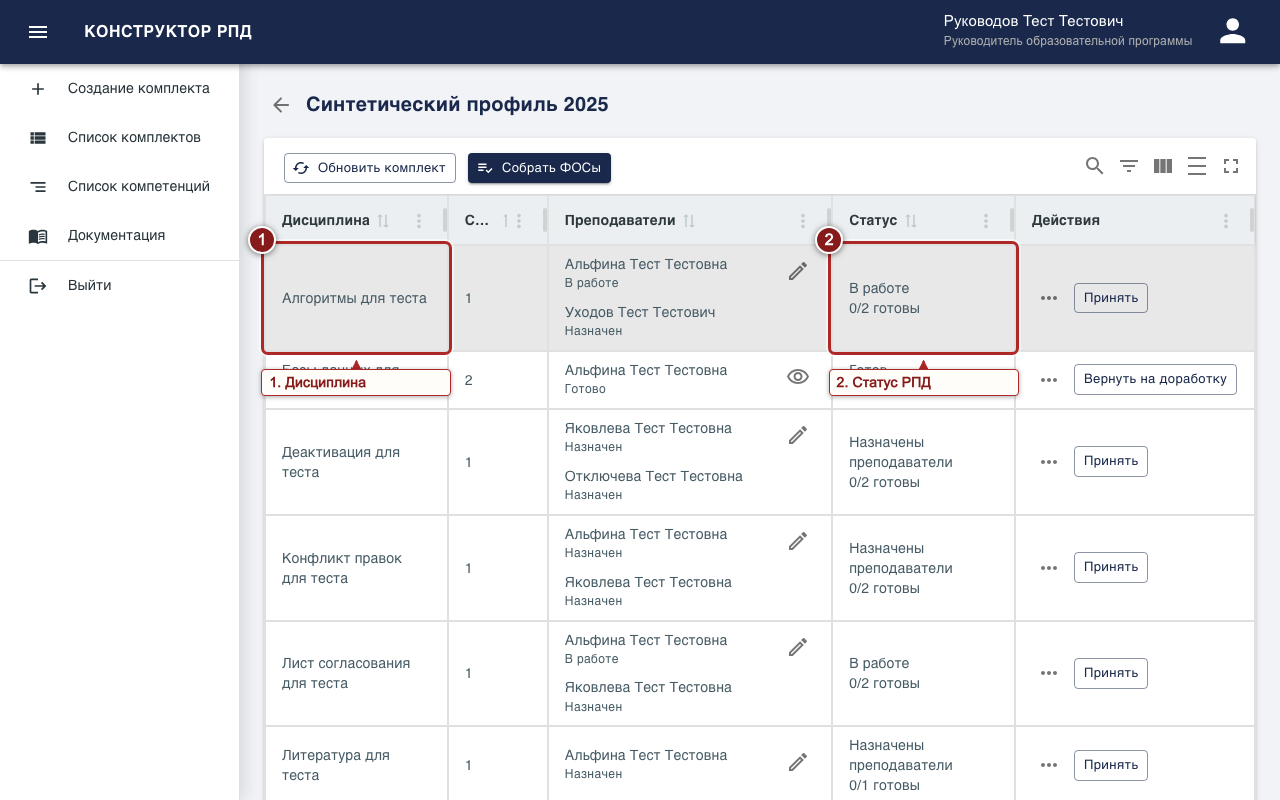
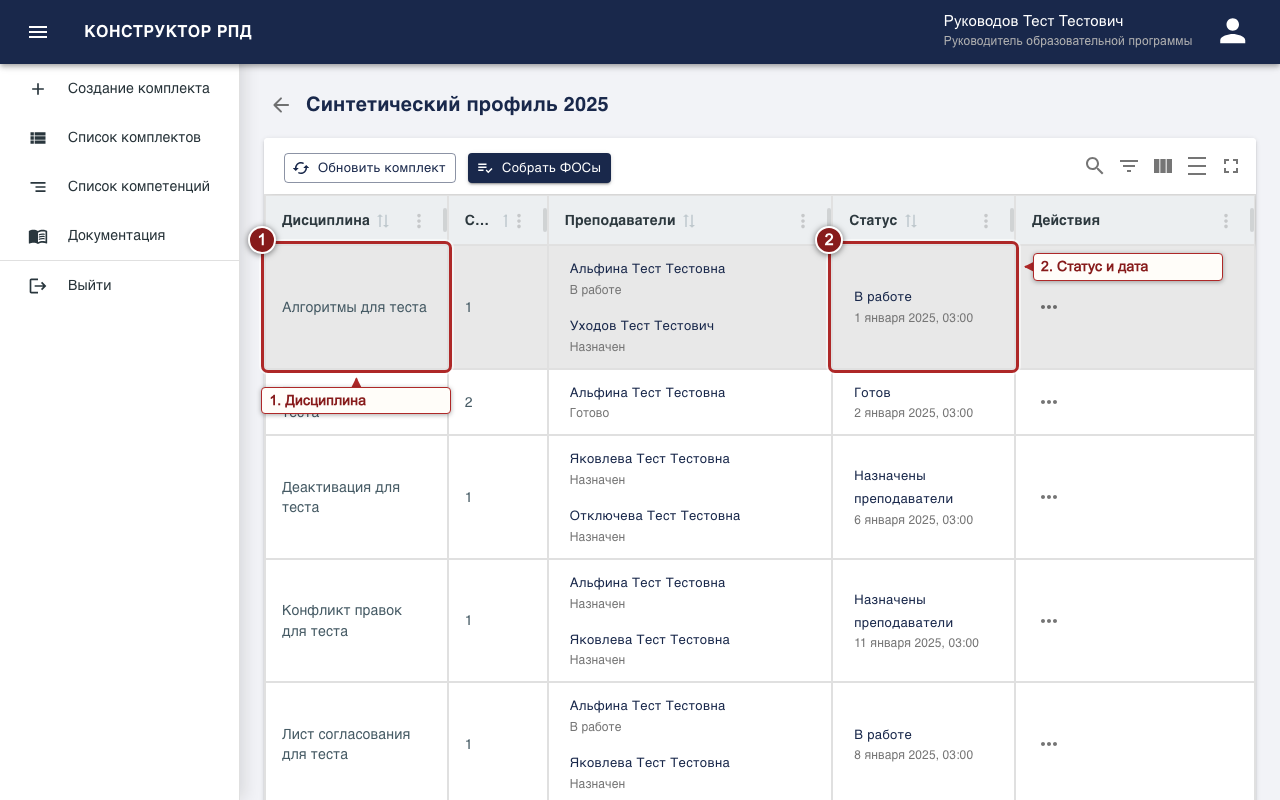
Документация: таблица комплекта, «Обновлено из 1С» без просмотра, тултип часов, повторный вход
Проблема
- Документация описывала прежнюю таблицу комплекта: прогресс «N/M готовы», «Просмотрено» у изменений 1С, иконки ✎/👁 и отдельные кнопки действий.

Что сделано
- Комплект: статус с датой открывает историю. «Обновлено из 1С» показывает изменения последней синхронизации и открывает диалог. Клик по ФИО или «Назначить преподавателей» открывает диалог состава, все действия собраны в меню «…».
- Редактор: уведомления 1С показывают последнее изменение поля, тултип «Правила заполнения» — расчёт и контроль.
- Список комплектов: «Обновлён» означает, что последняя синхронизация что-то изменила.
- В «Навигации и смене роли» появился абзац о повторном входе после обновления и о независимых сеансах.
- Скриншоты complect-table, complects-list, discipline-content, editor-collaboration, funds-dialog, teacher-selection перегенерированы. В screenshots.spec прокрутка сбрасывается перед кадрами редактора.

Как проверить
- cd e2e && bun run docs:screenshots — кадры снимаются без ошибок.

diff --git a/rpd-client-ts/public/docs/index.html b/rpd-client-ts/public/docs/index.html
@@ -46,6 +46,7 @@
       </section>
       <section class="sub-chapter" id="navigation"><h3>Навигация и смена роли</h3>
         <p>Откройте боковую панель кнопкой ☰. Пункт <strong>«Документация»</strong> открывает эту страницу в новой вкладке. Меню профиля открывается по имени в правом верхнем углу. У аккаунта РОП сверху в нём переключатель между ролями РОП и преподавателя, ниже — <strong>«Настройки»</strong> и <strong>«Выйти»</strong>; у остальных ролей переключателя нет.</p>
+        <p class="note">После обновления системы может потребоваться войти заново. Одновременная работа в нескольких вкладках и на нескольких устройствах допустима: сеансы независимы, вход и выход на одном устройстве не закрывают сеансы на других.</p>
       </section>
     </section>
 
@@ -59,22 +60,22 @@
         <p class="note">Если комплект с такими параметрами уже существует, откройте его кнопкой «Перейти к редактированию».</p>
       </section>
       <section class="sub-chapter" id="complect-list"><h3>Список, обновление и удаление</h3>
-        <p>Откройте <strong>«Список комплектов»</strong>. Кнопка <strong>«Комплект РПД»</strong> в строке открывает дисциплины, а <strong>«Компетенции»</strong> — планируемые результаты. Для обновления из 1С выберите один комплект в списке или откройте его и нажмите <strong>«Обновить комплект»</strong>. Загрузите данные из 1С, отметьте нужные изменения и подтвердите применение. Для удаления выберите комплекты в списке, нажмите <strong>«Удалить»</strong> и подтвердите действие.</p>
+        <p>Откройте <strong>«Список комплектов»</strong>. Кнопка <strong>«Комплект РПД»</strong> в строке открывает дисциплины, а <strong>«Компетенции»</strong> — планируемые результаты. Для обновления из 1С выберите один комплект в списке или откройте его и нажмите <strong>«Обновить комплект»</strong>. Загрузите данные из 1С, отметьте нужные изменения и подтвердите применение. Для удаления выберите комплекты в списке, нажмите <strong>«Удалить»</strong> и подтвердите действие. Пометка <strong>«Обновлён»</strong> с датой в колонке статуса означает, что последняя синхронизация с 1С что-то изменила.</p>
         <figure class="figure"><img src="media/complects-list.png" alt="Таблица комплектов с кнопкой открытия комплекта" width="1280" height="800" loading="lazy" />
           <figcaption>Список комплектов: 1 — откройте комплект кнопкой «Комплект РПД».</figcaption></figure>
       </section>
       <section class="sub-chapter" id="rpd-in-complect"><h3>РПД и преподаватели</h3>
-        <p>В комплекте каждая строка соответствует дисциплине; колонки — «Дисциплина», «Семестр», «Преподаватели», «Статус» и «Действия». Если РПД ещё не создана, нажмите <strong>«Создать»</strong> в колонке «Действия». Для созданной РПД откройте <strong>«Меню шаблона»</strong> (значок «…») и выберите <strong>«Открыть»</strong>.</p>
-        <p>В колонке «Преподаватели» назначенные перечислены списком: полное ФИО и личная отметка — «Назначен», «В работе» или «Готово»; неактивные аккаунты помечены. Состав меняется в диалоге «Преподаватели: …». Откройте его кнопкой ✎ <strong>«Изменить преподавателей»</strong> в ячейке или одноимённым пунктом меню «…». В диалоге найдите преподавателя в поле поиска и отметьте флажок; пометка «из 1С» показывает, кто указан в 1С. Если преподаватель есть в 1С, но аккаунта нет, внизу диалога появится справка «В 1С, аккаунт не найден» — такой аккаунт должен создать администратор. Изменения применяются сразу, диалог закрывается кнопкой <strong>«Закрыть»</strong>. В статусе «Готов» состав менять нельзя: сначала верните РПД на доработку.</p>
-        <p>Изменения из 1С («Обновлено из 1С», дата, «Просмотрено») показаны в колонке «Статус» под этапом.</p>
+        <p>В комплекте каждая строка соответствует дисциплине; колонки — «Дисциплина», «Семестр», «Преподаватели», «Статус» и «Действия». Все действия строки собраны в одном меню <strong>«Меню шаблона»</strong> (значок «…») в колонке «Действия». Для созданной РПД в нём есть <strong>«Открыть»</strong>, <strong>«История шаблона»</strong>, <strong>«Импортировать»</strong>, <strong>«Изменить преподавателей»</strong>, а также <strong>«Принять»</strong> и <strong>«Вернуть на доработку»</strong>, когда они доступны. Если РПД ещё не создана, в меню — <strong>«Создать»</strong> и <strong>«Назначить преподавателей»</strong>.</p>
+        <p>В колонке «Преподаватели» назначенные перечислены списком: полное ФИО и личная отметка — «Назначен», «В работе» или «Готово»; неактивные аккаунты помечены. Состав меняется в диалоге «Преподаватели: …». Откройте его кликом по ФИО или по строке <strong>«Назначить преподавателей»</strong> в ячейке либо пунктом <strong>«Изменить преподавателей»</strong> меню «…». В диалоге найдите преподавателя в поле поиска и отметьте флажок; пометка «из 1С» показывает, кто указан в 1С. Если преподаватель есть в 1С, но аккаунта нет, внизу диалога появится справка «В 1С, аккаунт не найден» — такой аккаунт должен создать администратор. Изменения применяются сразу, диалог закрывается кнопкой <strong>«Закрыть»</strong>. В статусе «Готов» состав менять нельзя: сначала верните РПД на доработку.</p>
+        <p>В колонке «Статус» показаны этап и дата с временем его начала; клик по ним открывает историю шаблона. Ниже, если последняя синхронизация с 1С что-то изменила, стоит <strong>«Обновлено из 1С»</strong> с датой: клик открывает диалог «Изменения из 1С» со списком этих изменений, кнопка <strong>«Закрыть»</strong> его закрывает.</p>
         <figure class="figure"><img src="media/complect-table.png" alt="Страница комплекта с дисциплинами, преподавателями и статусами" width="1280" height="800" loading="lazy" />
-          <figcaption>Страница комплекта: 1 — найдите дисциплину; 2 — проверьте статус и отметки готовности.</figcaption></figure>
+          <figcaption>Страница комплекта: 1 — найдите дисциплину; 2 — проверьте статус и дату. Все действия строки — в меню «…» справа.</figcaption></figure>
         <figure class="figure"><img src="media/teacher-selection.png" alt="Диалог назначения преподавателей с поиском и флажками" width="1280" height="800" loading="lazy" />
           <figcaption>Назначение преподавателей: 1 — найдите аккаунт в поле поиска; 2 — отметьте его флажком.</figcaption></figure>
       </section>
       <section class="sub-chapter" id="workflow"><h3>Готовность и согласование</h3>
-        <p>Действия в колонке «Действия» зависят от активной роли. У преподавателя — основная кнопка: <strong>«Взять в работу»</strong>, затем <strong>«Готово»</strong>; остальное, например <strong>«Снять отметку»</strong>, — в меню «…». Колонка «Статус» показывает этап и число отметившихся («N/M готовы»). Когда все активные назначенные преподаватели отметились, статус становится «Готов».</p>
-        <p>У РОП основная кнопка — <strong>«Принять»</strong>: он может принять РПД раньше, в статусах «Назначены преподаватели», «В работе» или «На доработке», если есть хотя бы один активный преподаватель. После этого статус также становится «Готов». В статусе «Готов» РОП нажимает <strong>«Вернуть на доработку»</strong> с обязательным комментарием; преподавателям снова потребуется отметить готовность.</p>
+        <p>Доступные действия зависят от активной роли. В списке шаблонов у преподавателя основная кнопка — <strong>«Взять в работу»</strong>, затем <strong>«Готово»</strong>; остальное, например <strong>«Снять отметку»</strong>, — в меню «…». В колонке статуса списка шаблонов виден прогресс («N/M готовы»); в комплекте РОП его нет. Когда все активные назначенные преподаватели отметились, статус становится «Готов».</p>
+        <p>У РОП эти действия — в меню «…» строки комплекта. Пункт <strong>«Принять»</strong> позволяет принять РПД раньше, в статусах «Назначены преподаватели», «В работе» или «На доработке», если есть хотя бы один активный преподаватель. После этого статус также становится «Готов». В статусе «Готов» РОП выбирает <strong>«Вернуть на доработку»</strong> с обязательным комментарием; преподавателям снова потребуется отметить готовность.</p>
       </section>
       <section class="sub-chapter" id="import-history"><h3>Импорт и история</h3>
         <p>В <strong>«Меню шаблона»</strong> выберите <strong>«Импортировать»</strong>, затем комплект и готовый шаблон для переноса содержательных полей. Перед подтверждением проверьте, какие данные будут заменены. Пункт <strong>«История шаблона»</strong> показывает события статусов и назначений; правки отдельных полей смотрите в редакторе.</p>
@@ -104,12 +105,12 @@
       </section>
       <section class="sub-chapter" id="editor"><h3>Редактор и совместная работа</h3>
         <p>Выберите раздел в боковой панели. Тексты РПД (цели, место дисциплины, дополнительные тексты, ресурсное обеспечение) открываются кнопкой <strong>«Редактировать»</strong> и сохраняются кнопкой <strong>«Сохранить изменения»</strong>; <strong>«Отменить»</strong> закрывает редактор без сохранения. Ячейки таблиц, списки и выбор значений сохраняются при выходе из ячейки.</p>
-        <p>Внизу боковой панели, над кнопкой «Сформировать документ», показаны статус сохранения («Сохранение…», «Есть несохранённые изменения», «Сохранено в …»), последняя правка шаблона и строка «Сейчас в шаблоне» со списком участников. Под заголовком раздела написано «Изменено: …» — кто и когда правил его последним. Если другой участник изменил то же поле раньше вас, редактор сообщит о конфликте: у текста черновик останется в редакторе — отмените редактирование, чтобы увидеть актуальное значение, и внесите правку заново.</p>
+        <p>Внизу боковой панели, над кнопкой «Сформировать документ», показаны статус сохранения («Сохранение…», «Есть несохранённые изменения», «Сохранено в …»), последняя правка шаблона и строка «Сейчас в шаблоне» со списком участников. Под заголовком раздела написано «Изменено: …» — кто и когда правил его последним. Если поле изменилось в учебном плане 1С, над ним показано уведомление «Изменено с учебного плана: …» с последним изменением именно этого поля. Если другой участник изменил то же поле раньше вас, редактор сообщит о конфликте: у текста черновик останется в редакторе — отмените редактирование, чтобы увидеть актуальное значение, и внесите правку заново.</p>
         <figure class="figure"><img src="media/editor-collaboration.png" alt="Редактор РПД: панель разделов со статусом сохранения, последней правкой и участниками" width="1280" height="800" loading="lazy" />
           <figcaption>Редактор: 1 — выберите раздел; 2 — внизу панели проверьте статус сохранения, последнюю правку и участников.</figcaption></figure>
       </section>
       <section class="sub-chapter" id="hours"><h3>Содержание дисциплины и часы</h3>
-        <p>В разделе <strong>«Содержание дисциплины»</strong> заполняйте темы и часы. Значок ⓘ <strong>«Правила заполнения»</strong> у заголовка раздела напоминает формулы расчёта, правило для контроля и смысл цветов. Сумма по темам сравнивается с учебным планом 1С: зелёный цвет означает совпадение, красный — расхождение. При расхождении под таблицей появляется предупреждение «Часы не совпадают с учебным планом» с перечнем только несовпавших показателей, например «всего 132 из 144; лекции 22 из 34». Контроль указывают в строке промежуточной аттестации. Данные учебного плана справа могут менять только РОП и администратор. Изменения в ячейке сохраняются при выходе из неё.</p>
+        <p>В разделе <strong>«Содержание дисциплины»</strong> заполняйте темы и часы. Значок ⓘ <strong>«Правила заполнения»</strong> у заголовка раздела напоминает, как считаются контактная работа и всего часов и где вводятся часы контроля. Сумма по темам сравнивается с учебным планом 1С: зелёный цвет означает совпадение, красный — расхождение. При расхождении под таблицей появляется предупреждение «Часы не совпадают с учебным планом» с перечнем только несовпавших показателей, например «всего 132 из 144; лекции 22 из 34». Контроль указывают в строке промежуточной аттестации. Данные учебного плана справа могут менять только РОП и администратор. Изменения в ячейке сохраняются при выходе из неё.</p>
         <figure class="figure"><img src="media/discipline-content.png" alt="Таблица содержания дисциплины с часами по темам и планом 1С" width="1280" height="800" loading="lazy" />
           <figcaption>Часы: 1 — заполните темы; 2 — сравните суммы с планом 1С.</figcaption></figure>
       </section>

diff --git a/e2e/tests/docs/screenshots.spec.ts b/e2e/tests/docs/screenshots.spec.ts
@@ -209,7 +209,7 @@ test('снимки инструкции на синтетических данн
   const rpdRow = page.getByRole('row').filter({ hasText: disciplines.inProgress });
   await save(page, 'complect-table', [
     { target: rpdRow.getByRole('cell', { name: disciplines.inProgress }), label: 'Дисциплина' },
-    { target: rpdRow.getByRole('cell').nth(3), label: 'Статус РПД' },
+    { target: rpdRow.getByRole('cell').nth(3), label: 'Статус и дата' },
   ]);
 
   // Состав не меняем: в кадре только поиск и флажок нужного аккаунта.
@@ -282,6 +282,8 @@ test('снимки инструкции на синтетических данн
     await teacherPage.getByRole('button', { name: 'Сохранить изменения' }).click();
     await saved;
     await expect(status.getByText(/Изменено: Альфина/)).toBeVisible();
+    // Окно остаётся прокрученным после перехода из длинного списка: возвращаем заголовок раздела в кадр.
+    await teacherPage.evaluate(() => window.scrollTo(0, 0));
     await save(teacherPage, 'editor-collaboration', [
       { target: aims, label: 'Раздел редактора', avoid: [teacherPage.getByRole('main').getByText(/Изменено: Альфина/)] },
       { target: status, label: 'Статус и участники' },
@@ -292,6 +294,7 @@ test('снимки инструкции на синтетических данн
       .getByRole('button', { name: 'Открыть' }).click();
     await secondPage.getByRole('button', { name: 'Содержание дисциплины' }).click();
     const contentTable = secondPage.getByRole('table', { name: 'Содержание дисциплины' });
+    await secondPage.evaluate(() => window.scrollTo(0, 0));
     await save(secondPage, 'discipline-content', [
       { target: contentTable.getByRole('row').filter({ hasText: 'Тема 2' }), label: 'Часы по темам' },
       { target: contentTable.getByRole('row').filter({ hasText: 'Итого за семестр / курс' }), label: 'Сверка с планом 1С' },
